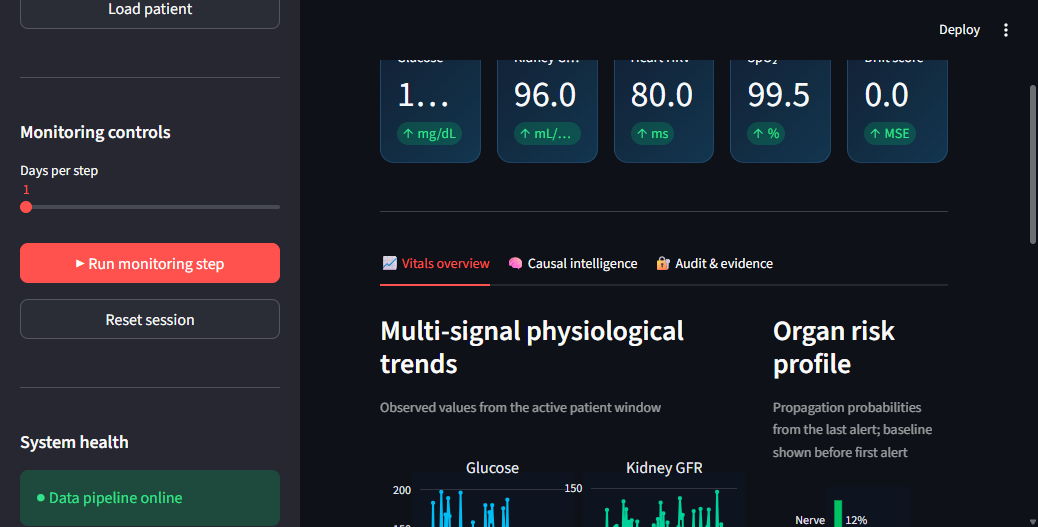
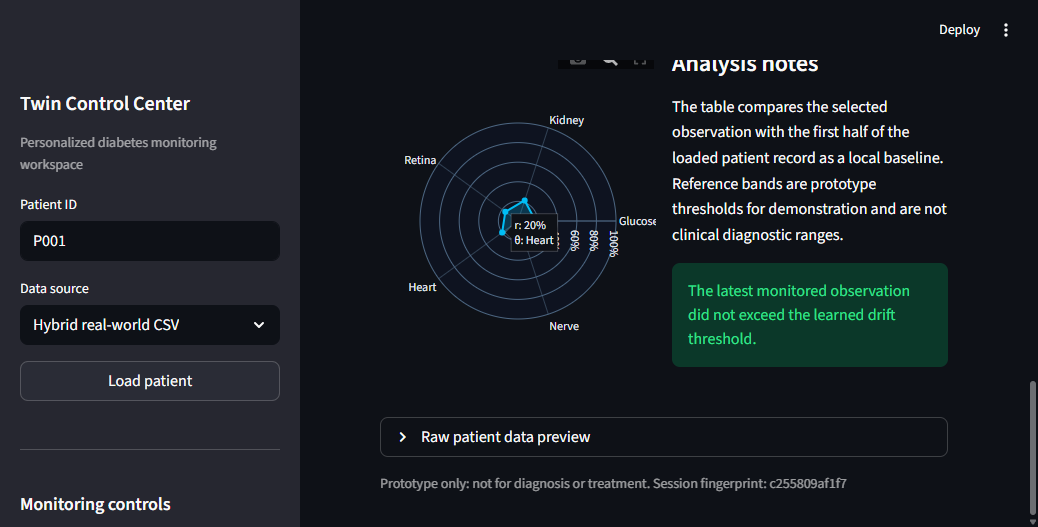
feat: improve patient analytics dashboard
Replace decorative UI with clinical charts, patient baseline analysis, distributions, and risk profiling.

diff --git a/dashboard.py b/dashboard.py
@@ -15,7 +15,6 @@ from agents.council import DiagnosticCouncil
 st.set_page_config(
     layout="wide",
     page_title="Neuro-Causal Diabetic Twin",
-    page_icon="🧬",
     initial_sidebar_state="expanded",
 )
 
@@ -149,6 +148,91 @@ def build_causal_graph(predictions):
     return fig
 
 
+def build_risk_radar(predictions):
+    labels = ["Glucose", "Kidney", "Retina", "Heart", "Nerve"]
+    values = [float(predictions.get(label.lower(), 0)) for label in labels]
+    fig = go.Figure(go.Scatterpolar(
+        r=values + [values[0]],
+        theta=labels + [labels[0]],
+        fill="toself",
+        line={"color": "#38bdf8", "width": 2},
+        fillcolor="rgba(56, 189, 248, .22)",
+        name="Current risk",
+    ))
+    fig.update_layout(
+        height=360, template="plotly_dark", showlegend=False,
+        polar={
+            "radialaxis": {"visible": True, "range": [0, 1], "tickformat": ".0%"},
+            "angularaxis": {"gridcolor": "#334155"},
+            "bgcolor": "rgba(15,23,42,.45)",
+        },
+        margin={"l": 40, "r": 40, "t": 25, "b": 25},
+        paper_bgcolor="rgba(0,0,0,0)",
+    )
+    return fig
+
+
+def build_distribution_chart(data):
+    metrics = [
+        ("glucose", "Glucose", "#38bdf8"),
+        ("gfr", "Kidney GFR", "#34d399"),
+        ("hrv", "Heart HRV", "#c084fc"),
+    ]
+    fig = make_subplots(rows=1, cols=3, subplot_titles=[item[1] for item in metrics])
+    for index, (column, name, color) in enumerate(metrics, start=1):
+        if column in data:
+            fig.add_trace(
+                go.Histogram(x=data[column], marker_color=color, opacity=.85, name=name),
+                row=1, col=index,
+            )
+    fig.update_layout(
+        height=300, template="plotly_dark", showlegend=False, bargap=.08,
+        margin={"l": 25, "r": 20, "t": 45, "b": 35},
+        paper_bgcolor="rgba(0,0,0,0)", plot_bgcolor="rgba(15,23,42,.45)",
+    )
+    return fig
+
+
+def patient_analysis(data, row, result, predictions):
+    specs = {
+        "Glucose": ("glucose", "mg/dL", 70, 140, "Higher values can indicate glycemic instability."),
+        "Kidney GFR": ("gfr", "mL/min", 60, 90, "Lower values indicate reduced kidney-function proxy."),
+        "Retina thickness": ("retina_thickness", "µm", 220, 280, "Deviation from the local baseline is monitored."),
+        "Heart HRV": ("hrv", "ms", 30, 70, "Lower variability can indicate autonomic stress."),
+        "SpO2": ("spo2", "%", 94, 100, "Peripheral oxygen saturation proxy."),
+        "Skin temperature": ("skin_temp", "°C", 32, 35, "Peripheral temperature proxy."),
+    }
+    rows = []
+    for label, (column, unit, low, high, interpretation) in specs.items():
+        if column not in data:
+            continue
+        value = float(row.get(column, 0))
+        baseline = float(data[column].iloc[: max(1, len(data) // 2)].mean())
+        delta = value - baseline
+        if low <= value <= high:
+            status = "Within reference band"
+        else:
+            status = "Review required"
+        rows.append({
+            "Metric": label,
+            "Current": f"{value:.1f} {unit}",
+            "Baseline": f"{baseline:.1f} {unit}",
+            "Change": f"{delta:+.1f} {unit}",
+            "Status": status,
+            "Interpretation": interpretation,
+        })
+    analysis = pd.DataFrame(rows)
+    alert_count = int(sum(event["severity"] == "High" for event in st.session_state.events))
+    highest = max(predictions, key=predictions.get)
+    summary = {
+        "observations": len(data),
+        "alerts": alert_count,
+        "highest_risk": f"{highest.title()} ({predictions[highest]:.0%})",
+        "drift_score": float(result.get("error", 0)),
+    }
+    return analysis, summary
+
+
 def add_event(day, result, block=None):
     event = {
         "timestamp": datetime.now().strftime("%H:%M:%S"),
@@ -165,7 +249,7 @@ def add_event(day, result, block=None):
 init_state()
 
 with st.sidebar:
-    st.markdown("## 🧬 Twin Control Center")
+    st.markdown("## Twin Control Center")
     st.caption("Personalized diabetes monitoring workspace")
     patient_id = st.text_input("Patient ID", value=st.session_state.council.client.patient_id)
     data_mode = st.selectbox("Data source", ["Hybrid real-world CSV", "Synthetic simulation"])
@@ -176,7 +260,7 @@ with st.sidebar:
     st.divider()
     st.markdown("### Monitoring controls")
     step_size = st.slider("Days per step", min_value=1, max_value=10, value=1)
-    if st.button("▶ Run monitoring step", type="primary", use_container_width=True):
+    if st.button("Run monitoring step", type="primary", use_container_width=True):
         council = st.session_state.council
         result = council.client.monitor(st.session_state.day)
         block = council.ledger.add_block(result) if result.get("alert") else None
@@ -193,9 +277,9 @@ with st.sidebar:
         st.rerun()
     st.divider()
     st.markdown("### System health")
-    st.success("● Data pipeline online")
-    st.success("● Federated node trained")
-    st.success("● Ledger available")
+    st.success("Data pipeline online")
+    st.success("Federated node trained")
+    st.success("Ledger available")
     st.caption(f"Last refresh: {datetime.now().strftime('%d %b %Y, %H:%M:%S')}")
 
 council = st.session_state.council
@@ -229,7 +313,9 @@ for col, (label, value, unit, _) in zip(metric_cols, latest_values):
         st.metric(label, f"{float(value):.1f}", unit)
 
 st.divider()
-tab_overview, tab_causal, tab_audit = st.tabs(["📈 Vitals overview", "🧠 Causal intelligence", "🔐 Audit & evidence"])
+tab_overview, tab_analysis, tab_causal, tab_audit = st.tabs(
+    ["Vitals overview", "Patient analysis", "Causal intelligence", "Audit and evidence"]
+)
 
 with tab_overview:
     left, right = st.columns([2.1, 1])
@@ -258,6 +344,38 @@ with tab_overview:
         st.metric("Learned drift threshold", f"{threshold_value:.4f}", "MSE")
         st.metric("Monitoring events", len(events))
 
+with tab_analysis:
+    analysis_table, analysis_summary = patient_analysis(council.data, row, result, predictions)
+    st.subheader("Patient-specific analysis")
+    st.caption("Current observations compared with the patient's learned baseline and prototype reference bands.")
+    summary_cols = st.columns(4)
+    with summary_cols[0]:
+        st.metric("Observations analyzed", f"{analysis_summary['observations']:,}")
+    with summary_cols[1]:
+        st.metric("High-severity alerts", analysis_summary["alerts"])
+    with summary_cols[2]:
+        st.metric("Highest modeled risk", analysis_summary["highest_risk"])
+    with summary_cols[3]:
+        st.metric("Current drift score", f"{analysis_summary['drift_score']:.4f}")
+    st.dataframe(analysis_table, use_container_width=True, hide_index=True)
+    st.subheader("Patient signal distributions")
+    st.plotly_chart(build_distribution_chart(council.data), use_container_width=True)
+    st.subheader("Relative risk profile")
+    radar_col, notes_col = st.columns([1, 1])
+    with radar_col:
+        st.plotly_chart(build_risk_radar(predictions), use_container_width=True)
+    with notes_col:
+        st.markdown("#### Analysis notes")
+        st.write(
+            "The table compares the selected observation with the first half of the loaded "
+            "patient record as a local baseline. Reference bands are prototype thresholds "
+            "for demonstration and are not clinical diagnostic ranges."
+        )
+        if result.get("alert"):
+            st.error("The latest monitored observation exceeded the learned drift threshold.")
+        else:
+            st.success("The latest monitored observation did not exceed the learned drift threshold.")
+
 with tab_causal:
     graph_col, explanation_col = st.columns([1.25, 1])
     with graph_col:
@@ -270,8 +388,8 @@ with tab_causal:
         st.info(f"Highest modeled risk: **{highest.title()} ({predictions[highest]:.0%})**")
         st.markdown(
             "- **Glucose** is treated as a source signal.\n"
-            "- **Kidney → Heart** is a constrained propagation pathway.\n"
-            "- **Glucose → Retina** is used as a retinal plausibility rule.\n"
+            "- **Kidney to Heart** is a constrained propagation pathway.\n"
+            "- **Glucose to Retina** is used as a retinal plausibility rule.\n"
             "- Values are prototype risk scores, not clinical probabilities."
         )
         if st.session_state.last_context:
